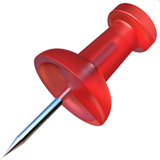
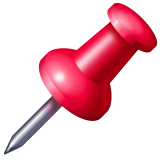
All responsive!

diff --git a/src/components/Contact/Contact.jsx b/src/components/Contact/Contact.jsx
@@ -1,15 +1,20 @@
 import TopBorder from './TopBorder';
 
-import Pin from '../../assets/creds/pin2.png';
+import Pin from '../../assets/creds/pin.png';
 import Hello from '../../assets/creds/hello.png';
 
 import { IconPointer, IconBrandLinkedin, IconMail, IconSend, IconCopy, IconBrandGithub, IconBrandInstagram, IconBrandSpotify } from '@tabler/icons-react';
 
 const Contact = ({ desktopView }) => {
+	const handleCopy = () => {
+		const textToCopy = 'daffaabhiprayaputra@gmail.com';
+		navigator.clipboard.writeText(textToCopy);
+	};
+
 	return (
 		<section
 			id='contactsec'
-			className='relative flex md:h-[28rem] md:w-[68rem] w-[90vw] md:flex-row flex-col rounded-3xl border-[#666666]'
+			className='relative flex w-[90vw] flex-col rounded-3xl border-[#666666] md:h-[28rem] md:w-[68rem] md:flex-row'
 			style={{ background: 'linear-gradient(to bottom, rgba(54, 67, 252, 0.01) 20%, rgba(54, 67, 252, 0.2))' }}
 		>
 			<div
@@ -17,9 +22,9 @@ const Contact = ({ desktopView }) => {
 				className='absolute -top-24'
 			/>
 			<TopBorder />
-			<div className='flex w-auto flex-col items-center justify-center space-y-4 md:p-12 p-8'>
-				<h1 className='w-full text-start font-instrument md:text-6xl text-5xl'>I&apos;m always up for...</h1>
-				<div className='md:w-auto w-full flex flex-col md:space-y-3 space-y-2 md:text-5xl text-4xl font-semibold'>
+			<div className='flex w-auto flex-col items-center justify-center space-y-4 p-8 md:p-12'>
+				<h1 className='w-full text-start font-instrument text-5xl md:text-6xl'>I&apos;m always up for...</h1>
+				<div className='flex w-full flex-col space-y-2 text-4xl font-semibold md:w-auto md:space-y-3 md:text-5xl'>
 					<div className='flex items-center space-x-3 pl-0'>
 						<IconPointer
 							size={desktopView ? 20 : 16}
@@ -54,43 +59,53 @@ const Contact = ({ desktopView }) => {
 					</div>
 				</div>
 			</div>
-			<div className='flex w-1/2 flex-col justify-center space-y-2 p-6'>
-				<div className='relative flex h-fit w-full rotate-[-4deg] flex-col justify-center space-y-4 rounded-3xl border-2 border-b-0 border-r-0 border-[#2a2a2a] bg-gradient-to-br from-[#1f1f1f] to-[#0e0e0e] p-8 shadow-xl'>
+			<div className='flex flex-col justify-center space-y-2 p-6 md:w-1/2'>
+				<div className='relative flex h-fit w-full rotate-[-3deg] flex-col justify-center space-y-4 rounded-3xl border-2 border-b-0 border-r-0 border-[#2a2a2a] bg-gradient-to-br from-[#1f1f1f] to-[#0e0e0e] p-6 pb-8 pt-2 shadow-xl md:rotate-[-4deg] md:p-8'>
 					<img
 						src={Pin}
 						alt='pin'
-						className='absolute -right-8 -top-10 w-16 drop-shadow-md'
+						className='absolute -right-8 -top-10 w-16 scale-[85%] drop-shadow-md md:scale-90'
 					/>
 					<img
 						src={Hello}
 						alt='hello'
 						className='absolute -bottom-4 -left-6 w-12 drop-shadow-md'
 					/>
-					<p className='text-lg'>Feel free to reach out for collab purposes or just a friendly hello :D</p>
+					<p className='md:text-lg'>Feel free to reach out for collab purposes or just a friendly hello :D</p>
 					<div className='flex h-10 w-fit flex-row items-center justify-center space-x-2 rounded-2xl'>
 						<div className='flex h-full items-center space-x-2 rounded-lg border border-customwhite px-3 transition-all duration-100 hover:border-blurple hover:text-blurple'>
 							<IconMail
-								size={20}
+								size={desktopView ? 20 : 16}
 								stroke={2}
 							/>
-							<p className='font-semibold'>daffaabhiprayaputra@gmail.com</p>
+							<p className='text-sm font-semibold'>daffaabhiprayaputra@gmail.com</p>
 						</div>
-						<div className='flex h-full w-10 items-center justify-center rounded-lg bg-[#2c2c32] p-[0.5rem] transition-all duration-100 hover:bg-blurple hover:bg-opacity-30 hover:text-blurple'>
-							<IconSend
-								size={20}
-								stroke={2}
-							/>
-						</div>
-						<div className='flex h-full w-10 items-center justify-center rounded-lg bg-[#2c2c32] p-[0.5rem] transition-all duration-100 hover:bg-blurple hover:bg-opacity-30 hover:text-blurple'>
-							<IconCopy
-								size={20}
-								stroke={2}
-							/>
-						</div>
+						{desktopView && (
+							<a
+								className='flex h-full w-10 items-center justify-center rounded-lg bg-[#2c2c32] p-[0.5rem] transition-all duration-100 hover:bg-blurple hover:bg-opacity-30 hover:text-blurple'
+								href='mailto:daffaabhiprayaputra@gmail.com'
+							>
+								<IconSend
+									size={20}
+									stroke={2}
+								/>
+							</a>
+						)}
+						{desktopView && (
+							<div
+								className='flex h-full w-10 items-center justify-center rounded-lg bg-[#2c2c32] p-[0.5rem] transition-all duration-100 hover:cursor-pointer hover:bg-blurple hover:bg-opacity-30 hover:text-blurple'
+								onClick={() => handleCopy()}
+							>
+								<IconCopy
+									size={20}
+									stroke={2}
+								/>
+							</div>
+						)}
 					</div>
 					<a href='https://www.linkedin.com/in/daffaabhipraya/'>
 						<div className='flex h-10 w-fit flex-row items-center justify-center space-x-2 rounded-lg bg-customwhite px-4 text-customblack transition-all duration-100 hover:bg-blurple hover:text-customwhite'>
-							<p className='font-semibold'>
+							<p className='text-sm font-semibold'>
 								or hit me up on <a className='font-extrabold'>LinkedIn</a>
 							</p>
 							<IconBrandLinkedin
@@ -101,7 +116,7 @@ const Contact = ({ desktopView }) => {
 					</a>
 					<div className='!mt-6 h-0.5 w-full bg-customgray' />
 					<p className=''>Follow my other socials!</p>
-					<div className='flex flex-row items-center justify-between'>
+					<div className='flex w-full flex-col space-y-2 md:flex-row md:justify-between md:space-y-0'>
 						<a href='https://github.com/absolutepraya'>
 							<div className='flex flex-row items-center space-x-1'>
 								<IconBrandGithub

diff --git a/src/components/Copyright.jsx b/src/components/Copyright.jsx
@@ -5,7 +5,7 @@ import moment from 'moment-timezone';
 
 import { IconCopyright, IconBrandGithub, IconClock } from '@tabler/icons-react';
 
-const Copyright = () => {
+const Copyright = ({ desktopView }) => {
 	const [currentTime, setCurrentTime] = useState('');
 
 	useEffect(() => {
@@ -19,19 +19,19 @@ const Copyright = () => {
 	}, []);
 
 	return (
-		<div className='flex h-16 w-full flex-row items-center justify-between border-t border-customgray bg-customgray bg-opacity-40 px-32 text-sm'>
-			<div className='flex w-1/3 flex-row items-center justify-start space-x-1'>
-				<IconCopyright size={18} />
+		<div className='flex md:h-16 py-4 md:py-0 w-full md:flex-row flex-col items-center justify-between border-t border-customgray bg-customgray bg-opacity-40 md:px-32 md:text-sm text-xs md:space-y-0 space-y-2'>
+			<div className='flex md:w-1/3 flex-row items-center justify-start space-x-1'>
+				<IconCopyright size={desktopView ? 18 : 14} />
 				<p>2024 Daffa Abhipraya — All Rights Reserved.</p>
 			</div>
-			<div className='flex w-1/3 flex-row items-center justify-center space-x-1'>
+			<div className='flex md:w-1/3 flex-row items-center justify-center space-x-1'>
 				<p>Jakarta, Indonesia</p>
-				<IconClock size={18} />
+				<IconClock size={desktopView ? 18 : 14} />
 				<p>{currentTime}</p>
 			</div>
-			<div className='flex w-1/3 flex-row items-center justify-end space-x-1'>
+			<div className='flex md:w-1/3 flex-row items-center justify-end space-x-1'>
 				<p>Designed and built by me</p>
-				<IconBrandGithub size={18} />
+				<IconBrandGithub size={desktopView ? 18 : 14} />
 				<a href='https://github.com/absolutepraya/portfolio'>
 					<p className='underline underline-offset-2'>Source code here.</p>
 				</a>
